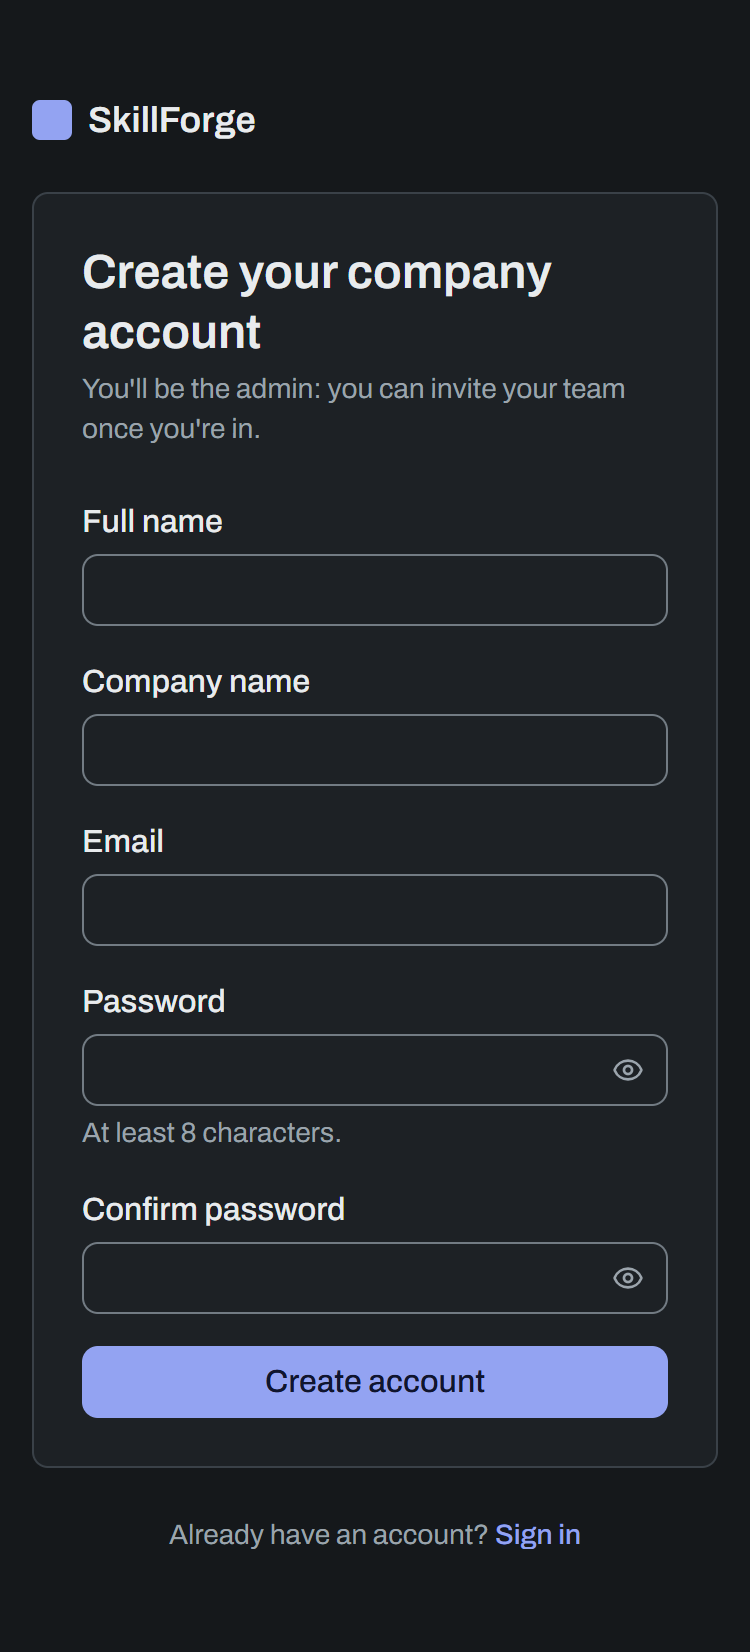
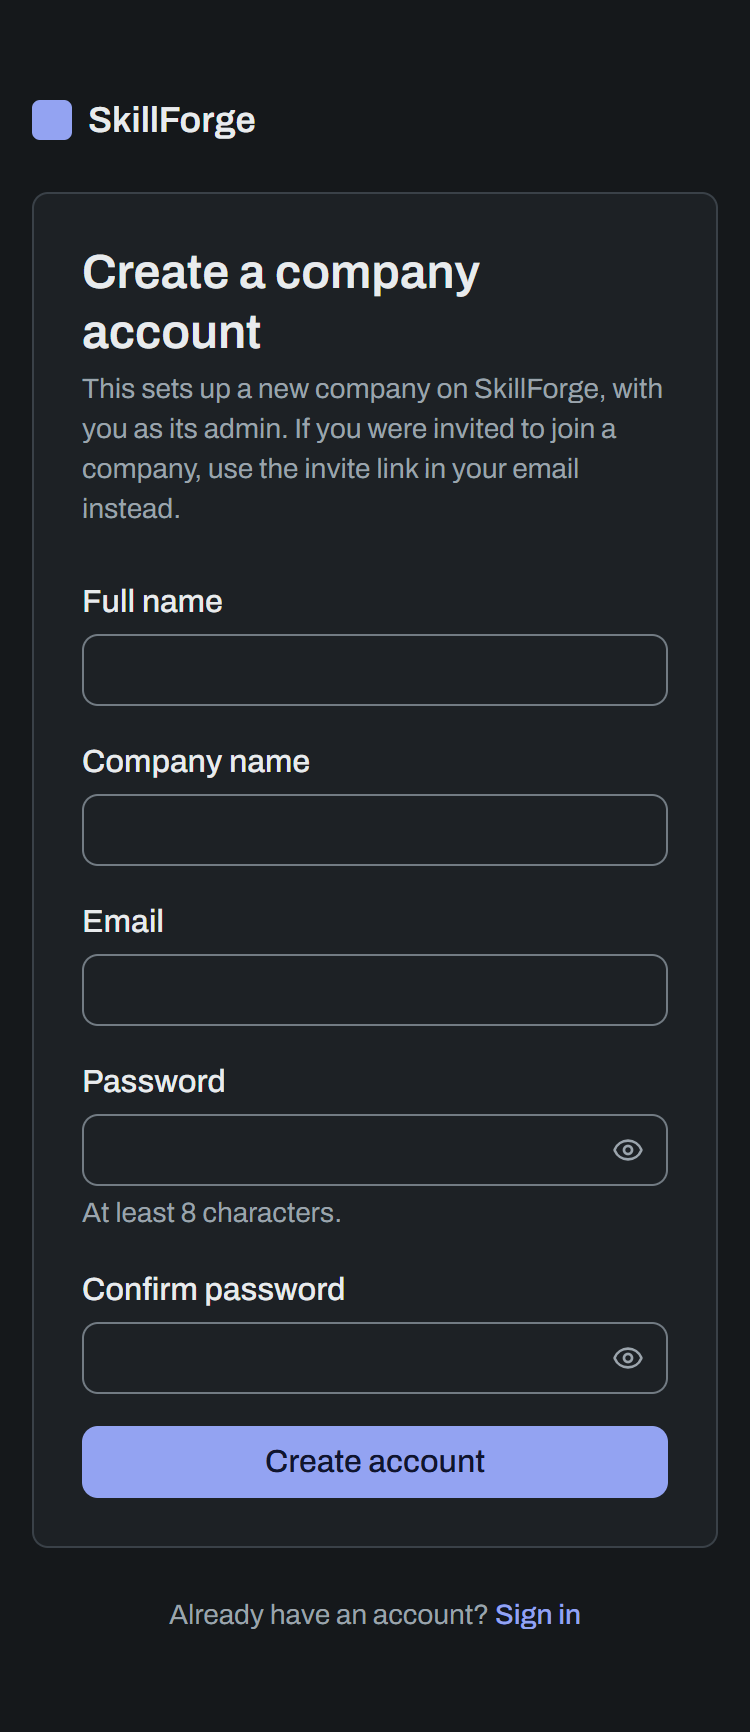
Record the review round, and the screenshots it changed

diff --git a/docs/progress.md b/docs/progress.md
@@ -9,7 +9,7 @@ What has been done, why, what broke and what's next. Newest session first. Updat
 - **A date bug closed that affected the admin pages as well.** Due dates were read as midnight UTC rather than as calendar days, so west of Greenwich every date in the app read a day early.
 - The quiz is now **one question at a time at every width**, with a step to check your answers before handing them in, and a warning before leaving with answers unsubmitted.
 - **Forgot password has a page of its own** (`/forgot-password`) instead of a muted link on the sign-in form that failed when the field above it was empty.
-- **115 end-to-end tests pass** (65 before), and the suite got **faster**: 12.4 minutes against 14.7 for the smaller one.
+- **118 end-to-end tests pass** (65 before), and the suite got faster per test: 11–15 minutes for nearly twice as many, against 14.7 for the 65.
 - Work is on **`redesign-phase-3`**, 9 commits, **not merged and not pushed**.
 
 ## Session 6: 2026-10-15 (redesign, phase 3)
@@ -24,7 +24,7 @@ What has been done, why, what broke and what's next. Newest session first. Updat
 6. **Rebuilt every sign-in page** on a shared `AuthCard`, with per-field validation, and gave forgot password its own route.
 7. **Closed the answer-sheet leak** in `submitQuiz`.
 8. **Fixed the UTC date bug** in the shared helpers, which also corrects the admin pages.
-9. **Added 54 tests** (30 end-to-end, 24 unit) and **made the suite faster** while it grew.
+9. **Added 57 tests** (33 end-to-end, 24 unit) and **made the suite faster** while it grew.
 
 ### Key decisions and why
 
@@ -80,7 +80,7 @@ The suite was 14.7 minutes for 65 tests, which is at the edge of the 15-minute l
 
 `workers` stays at 1: parallelism is what would risk Supabase's auth rate limits, which is why the run was made serial in the first place.
 
-**115 tests in 12.4 minutes**, against 65 in 14.7.
+**118 tests in 11–15 minutes** depending on what else the machine is doing, against 65 in 14.7.
 
 ### Commits
 
@@ -94,20 +94,22 @@ The suite was 14.7 minutes for 65 tests, which is at the edge of the 15-minute l
 | `700997d` | The two suite speed-ups                                                                                        |
 | `1ca1357` | The assertion budget takes on what `open()` used to absorb; `focusFirstError` moves to `lib`                   |
 | `9ec35bd` | The grader stops handing the answer sheet to failed attempts                                                   |
+| `98ca726` | The progress log and CLAUDE.md                                                                                 |
+| `b4b29b4` | The four fixes from your review                                                                                |
 
 ### Checks at the end of the session
 
-| Check                                   | Result                                                                                                |
-| --------------------------------------- | ----------------------------------------------------------------------------------------------------- |
-| `npm run test:e2e`                      | **115 passed** (65 before this session), in **10.9 minutes** — against 14.7 for the smaller suite     |
-| `npm run check:contrast`                | **all passed** — 60 checks across both themes (56 before)                                             |
-| `npx tsc --noEmit`                      | clean                                                                                                 |
-| `npx tsc --noEmit -p e2e/tsconfig.json` | clean                                                                                                 |
-| `npm run build`                         | succeeds (nitro, Cloudflare target)                                                                   |
-| `npm run lint`                          | 367 problems, down from 399 on `main`; **no errors and no warnings in any file this session touched** |
-| `npm run verify:security`               | **all passed** — 55 checks                                                                            |
-| `npm run test:mcp`                      | all passed                                                                                            |
-| secret scan                             | clean — no secret-shaped strings anywhere in the branch; `.env.local` has never been tracked          |
+| Check                                   | Result                                                                                                                                   |
+| --------------------------------------- | ---------------------------------------------------------------------------------------------------------------------------------------- |
+| `npm run test:e2e`                      | **118 passed** (65 before this session), in 11–15 minutes depending on what else the machine is doing — against 14.7 for the suite of 65 |
+| `npm run check:contrast`                | **all passed** — 60 checks across both themes (56 before)                                                                                |
+| `npx tsc --noEmit`                      | clean                                                                                                                                    |
+| `npx tsc --noEmit -p e2e/tsconfig.json` | clean                                                                                                                                    |
+| `npm run build`                         | succeeds (nitro, Cloudflare target)                                                                                                      |
+| `npm run lint`                          | 367 problems, down from 399 on `main`; **no errors and no warnings in any file this session touched**                                    |
+| `npm run verify:security`               | **all passed** — 55 checks                                                                                                               |
+| `npm run test:mcp`                      | all passed                                                                                                                               |
+| secret scan                             | clean — no secret-shaped strings anywhere in the branch; `.env.local` has never been tracked                                             |
 
 Two failures were seen on the way and both were understood rather than retried: a `journey.spec.ts` assertion that ran out of budget under full-suite load (fixed in `1ca1357`), and one 26-second timeout on the first request after editing `quiz.functions.ts`, which was Vite transforming the changed module and passed at 14 seconds on a re-run. Worth knowing if the suite ever looks flaky immediately after a change.
 
@@ -116,6 +118,17 @@ Two failures were seen on the way and both were understood rather than retried: 
 `docs/screenshots/before-phase-3` (22, light only) and `docs/screenshots/phase-3` (52: the training list with items and empty, the course page, the quiz mid-question, both results, and all six auth screens — sign in, sign up, forgot password and its confirmation, set password for an invite and for a reset, and a link that has expired — each at 1440x900 and 375x812 in both themes).
 
 The quiz shot is a viewport capture rather than a full-page one, because mid-question on a phone is the thing it exists to show.
+
+### Your phase-3 review, and what changed because of it
+
+You found four things. All four were real, and one of them turned out to be hiding a second problem behind it.
+
+1. **"New to SkillForge? Create an account" on the sign-in page** would have sent invited employees to sign up — which builds them a company of their own and leaves them the admin of nothing, with their real invite still unused. The two paths are now named separately: "Setting up SkillForge for your company?" leads to signup, and a line underneath tells everyone else to use the invite link in their email. The signup page is retitled "Create a company account" and says what it makes.
+2. **The score bar is labelled "Best score" on the page**, not only to a screen reader. 50% against an In progress course could otherwise read as being halfway through the course rather than as the best a quiz attempt has managed.
+3. **The forgot-password confirmation is now word for word the same whatever the address was**, and no longer repeats the address back. Checking this turned up a second oracle in the error path: Supabase answers the same whether or not an account exists, but its _send rate limit_ can only be tripped by an address it really emails, so surfacing that error would have said "this one exists". Only a failure to reach the server at all is reported now — that reveals nothing, because the request never arrived, and silently claiming success there would be a worse lie than the one this avoids. Anything else is logged to the console and shows the confirmation. A test sends a real address and an invented one down the same path and compares the rendered text character for character.
+4. **Finished training says "Completed 14 Oct 2026" instead of the due date.** No backend change was needed: `quiz_results.completed_at` already exists and employees can already read their own rows. It is the **first** passing attempt, not the latest — completion is when they showed they knew the material, and practising afterwards doesn't move that day. An assignment marked complete with no passing attempt behind it, which the app can't produce but older data might, keeps the due date rather than showing a gap.
+
+One residual that cannot be fixed in the page: **timing**. A reset for a real address takes longer, because an email actually goes out. That is the provider's behaviour, not this form's, and no wording closes it.
 
 ### What phase 3 did not cover
 

diff --git a/CLAUDE.md b/CLAUDE.md
@@ -32,7 +32,7 @@ npm run screenshots:phase-3  # design screenshots → docs/screenshots/phase-3
 
 **After any visual change**, run `npm run check:contrast` — it reads the tokens straight out of `styles.css` and fails if a pair drops below AA. Re-run `npm run screenshots` when a redesigned screen changes; it uses its own config and port (8091) and seeds its own data.
 
-**End-to-end tests** (`e2e/`, `playwright.config.ts`) run in installed Edge against their own dev server on port 8090 (115 tests, about 11 minutes depending on what else is running). That port must be in Supabase's Redirect URLs; `e2e/global-setup.ts` checks this. Run them after any change to a flow they cover, and keep them passing.
+**End-to-end tests** (`e2e/`, `playwright.config.ts`) run in installed Edge against their own dev server on port 8090 (118 tests, 11-15 minutes depending on what else is running). That port must be in Supabase's Redirect URLs; `e2e/global-setup.ts` checks this. Run them after any change to a flow they cover, and keep them passing.
 
 - **No email, ever.** The test server sets `E2E_SKIP_INVITE_EMAIL=1`, and `createEmployee` then uses `generateLink` instead of `inviteUserByEmail` (honoured only when `import.meta.env.DEV`). Tests get invite and reset links from `admin.generateLink` and intercept the browser's `/auth/v1/recover` call. Never call a path that emails.
 - **Own data only.** Test users must use `@e2e.example.com` emails and test companies must be named `E2E Test …` (use the helpers in `e2e/helpers.ts`). `cleanupE2EData()` deletes only those, in global setup and teardown.
